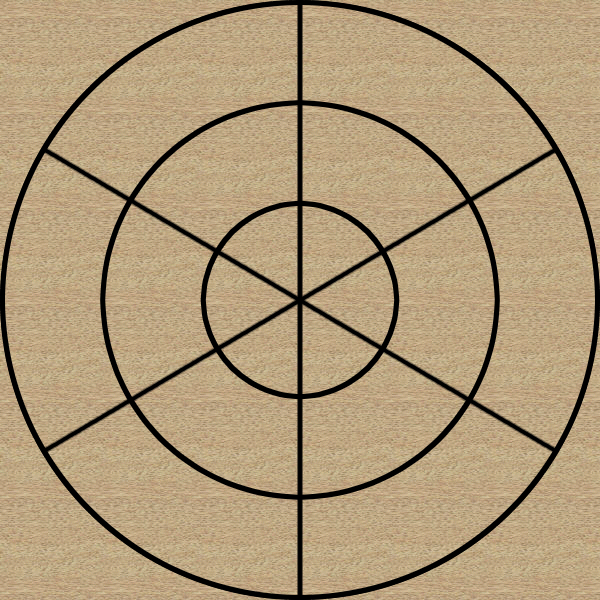
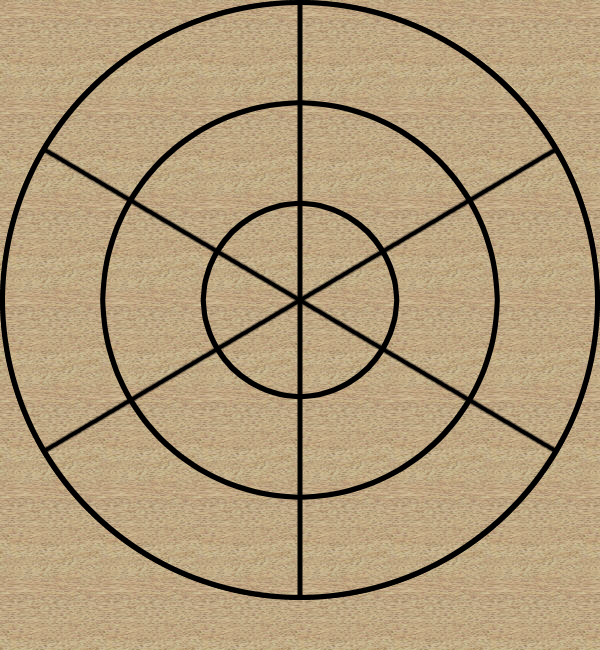
menu

diff --git a/Main.py b/Main.py
@@ -21,7 +21,6 @@ def get_image(path):
 red = get_image('Pionek_czerwony.png')
 green = get_image('Pionek_zielony.png')
 
-
 def draw_pawns():
 
         for i in range(1, 20, 1):
@@ -32,9 +31,10 @@ def draw_pawns():
 
 
 game = Game()
-img = cv2.imread('PretwaBoard.png', 0)
+img = cv2.imread('Pretwa_menu.png', 0)
+in_menu = True
 height, width = img.shape[:2]
-resolution = (height, width)
+resolution = (width, height)
 screen = pygame.display.set_mode(resolution)  # Tutaj odpalamy okno
 pygame.display.set_caption("Pretwa - The game")  # Ustalamy co wyświetli się na pasku
 tps_clock = pygame.time.Clock()
@@ -42,28 +42,70 @@ tps_delta = 0.0
 tps_max = 40.0
 
 while True:
-    for event in pygame.event.get():  # przechwytuje jakieś zdarzenia, tylko trzeba rozróżnić że
-                                         # np. każde kliknięcie to osobny event
+    if in_menu:
+        background_image = pygame.image.load("Pretwa_menu.png").convert()
+        for event in pygame.event.get():  # przechwytuje jakieś zdarzenia, tylko trzeba rozróżnić że
+                                            # np. każde kliknięcie to osobny event
                                             # ale kliknięcie i trzymanie to już tylko jeden event
-        if event.type == pygame.QUIT:  # sprawdza, czy tym zdarzeniem było kliknięcie X
-            sys.exit(0)                 # jeżeli tak, to wyłącza okienko
-        elif event.type == pygame.KEYDOWN and event.key == pygame.K_ESCAPE:
-            sys.exit(0)
-        # elif event.type == pygame.MOUSEBUTTONUP:
-        #     pos = pygame.mouse.get_pos()
-        elif event.type ==pygame.MOUSEBUTTONDOWN:
-            print('Mouse position: {}'.format(event.pos))
-            object_index = game.check_if_clickable(event.pos)
-            if object_index != None:
-                print('Position on board: {}'.format(object_index))
-                screen.blit(red, (game.coordinates[2]))
 
-                game.add_to_interaction(object_index)
-                print("Positions: {}".format(game.interaction))
-                draw_pawns()
+            if event.type == pygame.QUIT:  # sprawdza, czy tym zdarzeniem było kliknięcie X
+                sys.exit(0)  # jeżeli tak, to wyłącza okienko
+            elif event.type == pygame.KEYDOWN and event.key == pygame.K_ESCAPE:
+                sys.exit(0)
 
-    background_image = pygame.image.load("PretwaBoard.png").convert()
-    draw_pawns()
+            elif event.type == pygame.MOUSEBUTTONDOWN:
+                print('Mouse position: {}'.format(event.pos))
+                if (event.pos[0] >= 100)\
+                        and (event.pos[0] <= 500)\
+                        and (event.pos[1] >= 250)\
+                        and (event.pos[1] <= 350):
+                   in_menu = False
+                   background_image = pygame.image.load("PretwaBoard.png").convert()
+
+                elif (event.pos[0] >= 100)\
+                        and (event.pos[0] <= 500)\
+                        and (event.pos[1] >= 400)\
+                        and (event.pos[1] <= 500):
+                    pass
+
+    elif (in_menu == False) and (game.red_wins == False and game.green_wins ==False) :
+        for event in pygame.event.get():  # przechwytuje jakieś zdarzenia, tylko trzeba rozróżnić że
+                                             # np. każde kliknięcie to osobny event
+                                                # ale kliknięcie i trzymanie to już tylko jeden event
+            if event.type == pygame.QUIT:  # sprawdza, czy tym zdarzeniem było kliknięcie X
+                sys.exit(0)                 # jeżeli tak, to wyłącza okienko
+
+            elif event.type == pygame.KEYDOWN and event.key == pygame.K_ESCAPE:
+                sys.exit(0)
+
+            elif event.type ==pygame.MOUSEBUTTONDOWN:
+                print('Mouse position: {}'.format(event.pos))
+                object_index = game.check_if_clickable(event.pos)
+
+                if object_index != None:
+                    print('Position on board: {}'.format(object_index))
+                    screen.blit(red, (game.coordinates[2]))
+
+                    game.add_to_interaction(object_index)
+                    print("Positions: {}".format(game.interaction))
+                    draw_pawns()
+
+        if game.red_turn:
+            background_image = pygame.image.load("Pretwa_red_turn.png").convert()
+            draw_pawns()
+
+        elif not game.red_turn:
+            background_image = pygame.image.load("Pretwa_green_turn.png").convert()
+            draw_pawns()
+    else:
+
+        if game.green_wins:
+            background_image = pygame.image.load("Pretwa_green_wins.png").convert()
+
+        if game.red_wins:
+            background_image = pygame.image.load("Pretwa_red_wins.png").convert()
+
+
 
     pygame.display.flip()  # wyświetla to, co narysowaliśmy
 

diff --git a/Game.py b/Game.py
@@ -56,6 +56,8 @@ class Game():
 
         self.red_turn = True
         self.go_deeper = True
+        self.red_wins = False
+        self.green_wins = False
 
         self.can_move_to = {
             1: [2, 6, 7],
@@ -101,6 +103,7 @@ class Game():
         }
 
     def has_common(self, a, b):
+        """sprawdzamy czy dwie listy mają wspólny element"""
         for x in a:
             for y in b:
                 if x == y:
@@ -222,7 +225,7 @@ class Game():
                     if self.board_state[x] == State.GREEN:
                         counter += 1
                 if counter <= 3:
-                    print("Red wins")
+                    self.red_turn=True
 
         elif not self.red_turn:
 
@@ -259,7 +262,7 @@ class Game():
                         else:
                             self.red_turn = True
                             self.interaction.clear()
-                            print("Green turn")
+                            print("Red turn")
                     else:
                         self.interaction.clear()
                 else:
@@ -269,7 +272,7 @@ class Game():
                         self.board_state[self.interaction[0]] = State.EMPTY
                         self.red_turn = True
                         self.interaction.clear()
-                        print("Green turn")
+                        print("Red turn")
 
                     elif (self.interaction[1] not in self.can_move_to[self.interaction[0]]) \
                             and ((self.interaction[1] in self.can_hit[self.interaction[0]])
@@ -287,7 +290,7 @@ class Game():
                         else:
                             self.red_turn = True
                             self.interaction.clear()
-                            print("Green turn")
+                            print("Red turn")
                     else:
                         self.interaction.clear()
                 counter = 0
@@ -295,5 +298,4 @@ class Game():
                     if self.board_state[x] == State.RED:
                         counter += 1
                 if counter <= 3:
-                    print("Red wins")
-
+                    self.green_wins = True
